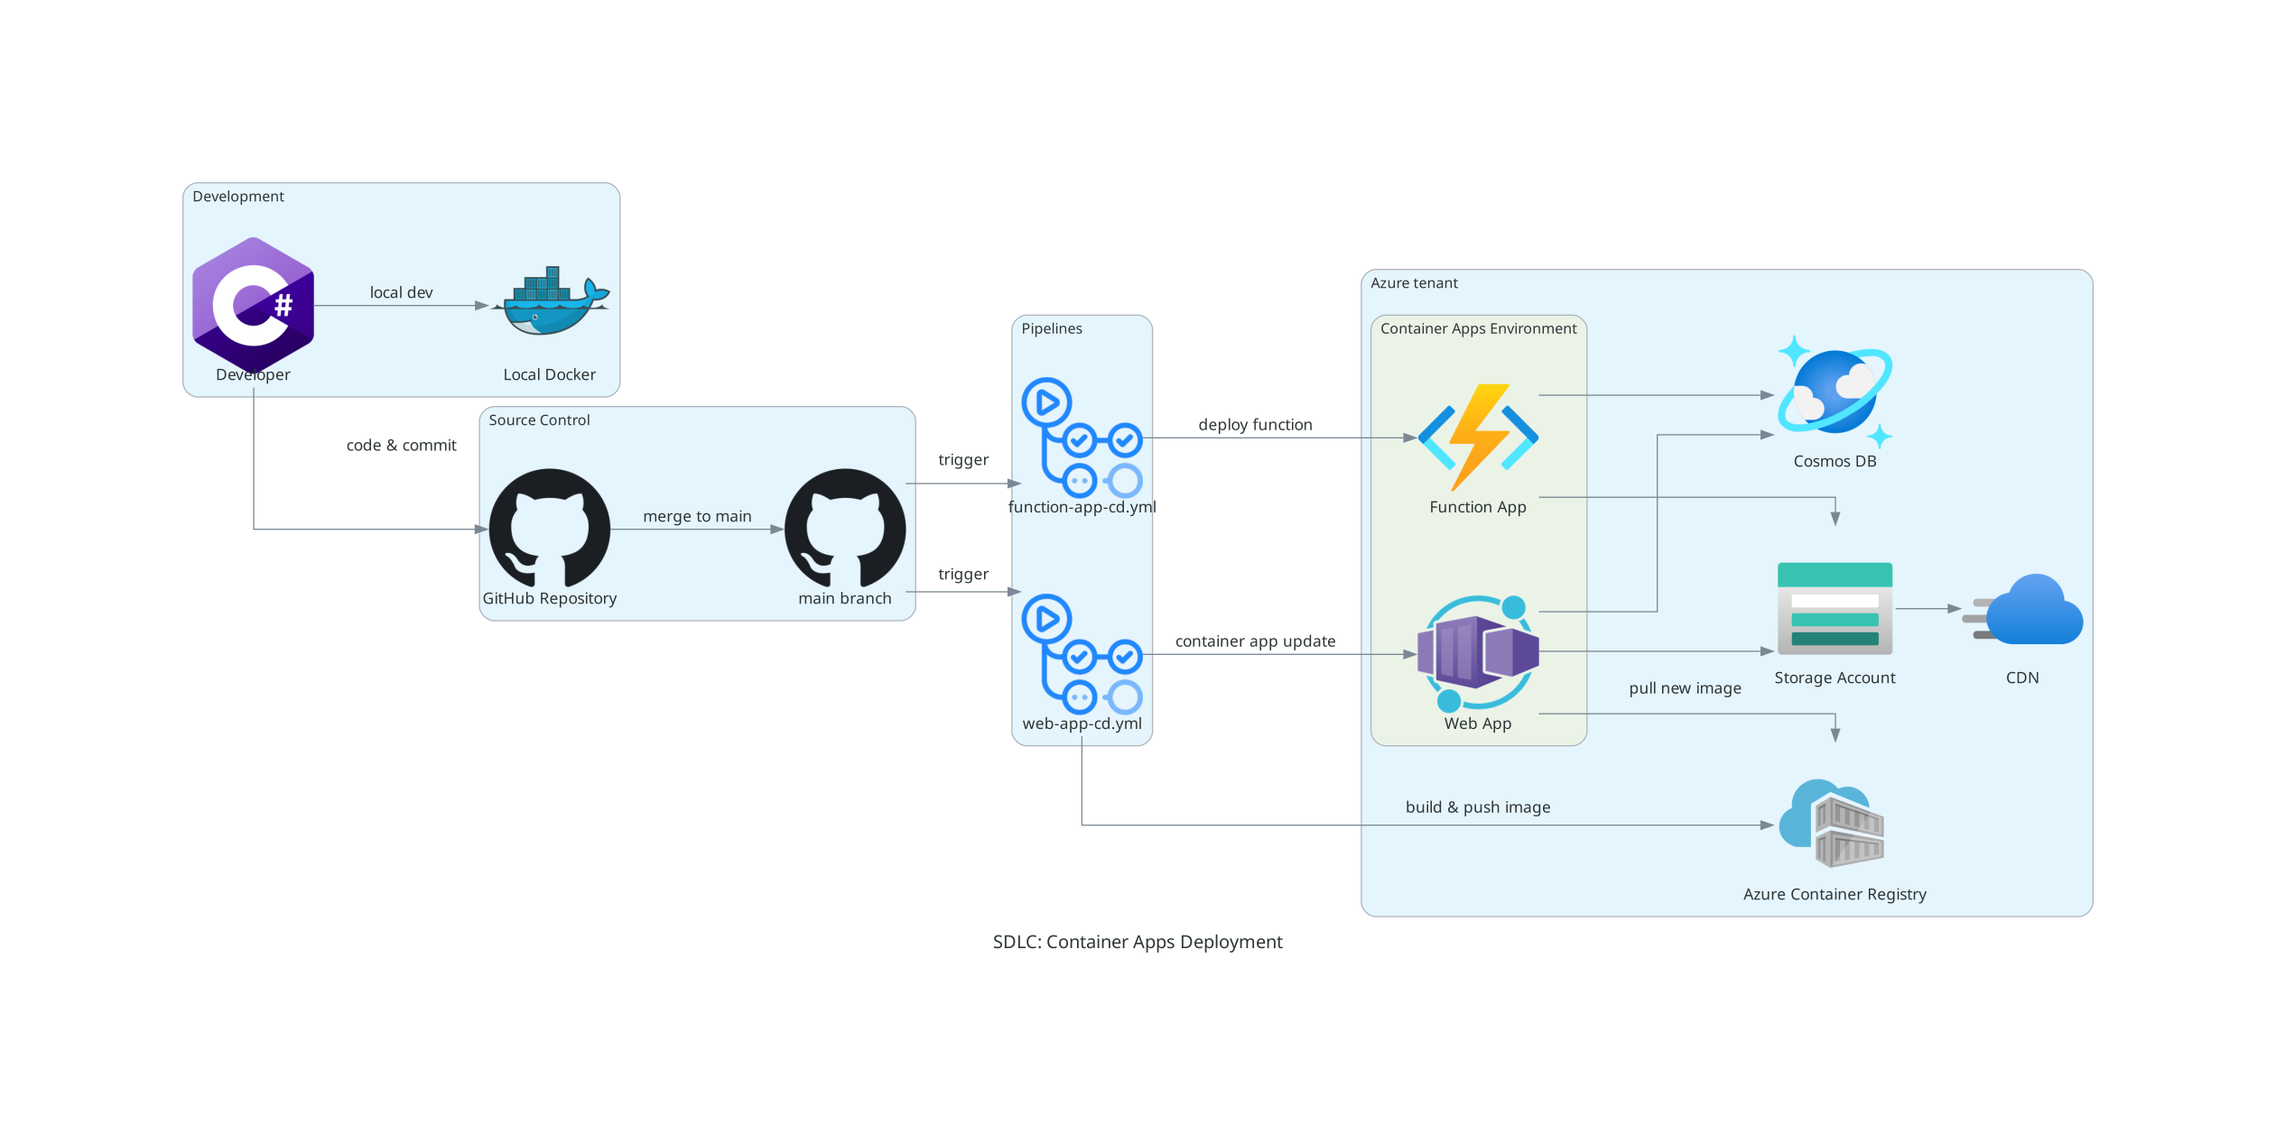
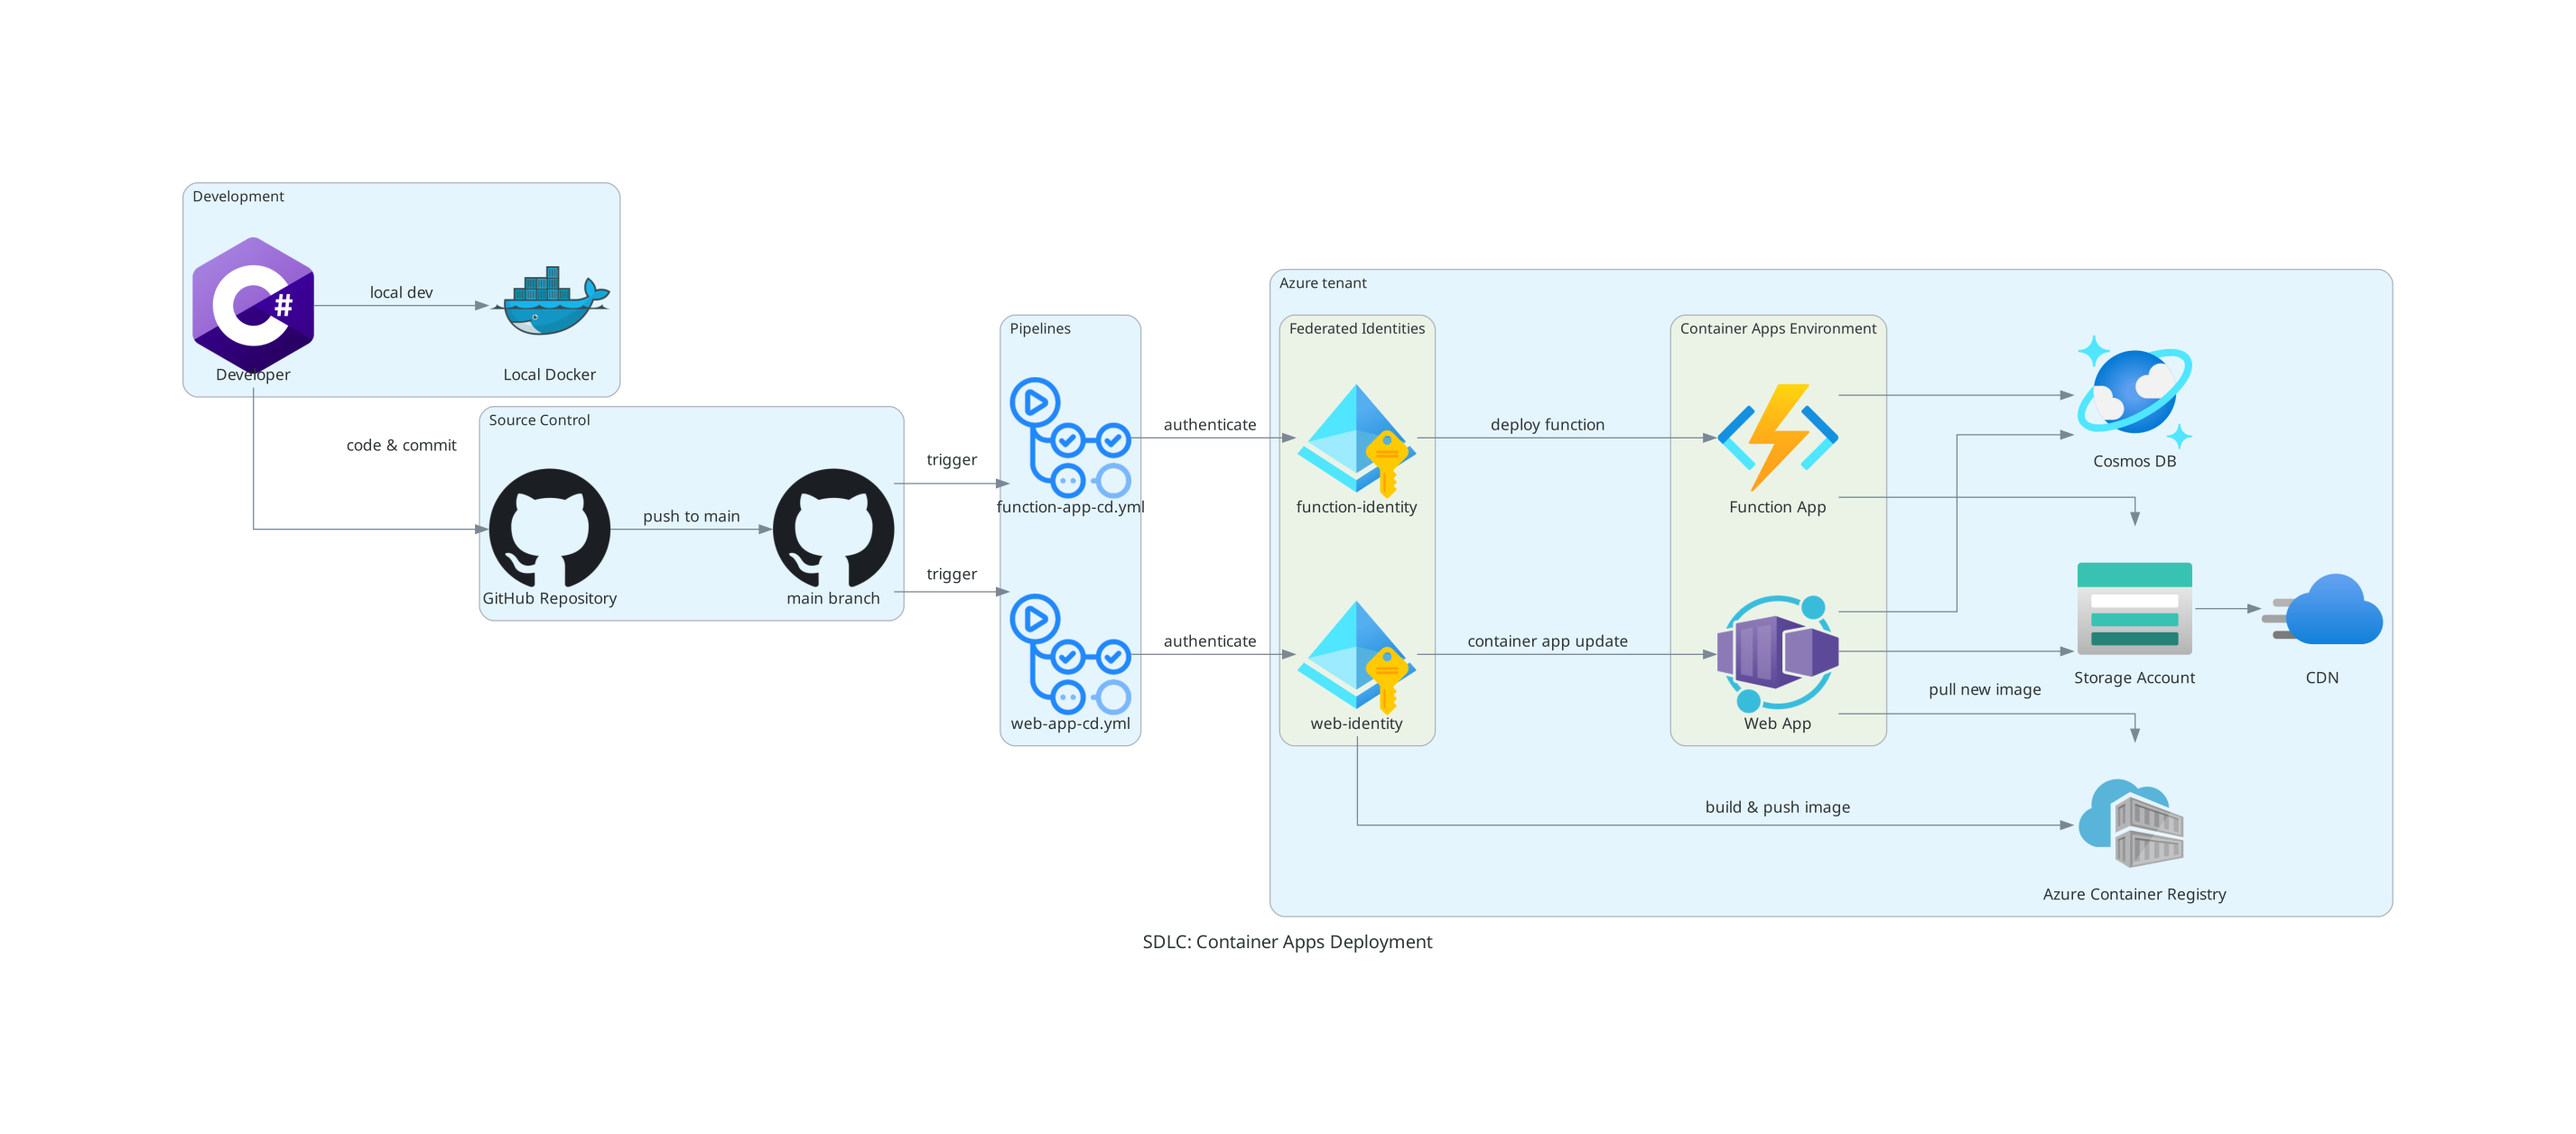
fix pipeline update diagrams

diff --git a/doc/sdlc-container-apps.py b/doc/sdlc-container-apps.py
@@ -7,18 +7,17 @@ Generates a visual diagram showing the software development lifecycle for Contai
 from diagrams import Diagram, Cluster, Edge
 from diagrams.onprem.vcs import Github
 from diagrams.onprem.ci import GithubActions
-from diagrams.azure.compute import ContainerApps, FunctionApps
+from diagrams.azure.compute import ContainerApps, FunctionApps, ContainerRegistries
 from diagrams.azure.database import CosmosDb
 from diagrams.azure.storage import StorageAccounts
 from diagrams.azure.network import CDNProfiles
-from diagrams.azure.compute import ContainerRegistries
-from  diagrams.programming.language import Csharp
+from diagrams.azure.identity import ManagedIdentities
 from diagrams.onprem.container import Docker
+from diagrams.programming.language import Csharp
 
 def create_diagram():
     with Diagram("SDLC: Container Apps Deployment", show=False, filename="sdlc-container-apps"):
 
-        # Development Phase
         with Cluster("Development"):
             developer = Csharp("Developer")
             local_docker = Docker("Local Docker")
@@ -32,6 +31,10 @@ def create_diagram():
             function_pipeline = GithubActions("function-app-cd.yml")
 
         with Cluster("Azure tenant"):
+            with Cluster("Federated Identities"):
+                web_identity = ManagedIdentities("web-identity")
+                function_identity = ManagedIdentities("function-identity")
+
             acr = ContainerRegistries("Azure Container Registry")
 
             with Cluster("Container Apps Environment"):
@@ -43,16 +46,19 @@ def create_diagram():
             cdn = CDNProfiles("CDN")
 
         developer >> Edge(label="code & commit") >> github_repo
-        github_repo >> Edge(label="merge to main") >> main_branch
+        github_repo >> Edge(label="push to main") >> main_branch
 
         main_branch >> Edge(label="trigger") >> web_pipeline
         main_branch >> Edge(label="trigger") >> function_pipeline
 
-        web_pipeline >> Edge(label="build & push image") >> acr
+        web_pipeline >> Edge(label="authenticate") >> web_identity
+        function_pipeline >> Edge(label="authenticate") >> function_identity
 
-        function_pipeline >> Edge(label="deploy function") >> function_app
-        web_pipeline >> Edge(label="container app update") >> web_app
+        web_identity >> Edge(label="build & push image") >> acr
+        web_identity >> Edge(label="container app update") >> web_app
         web_app >> Edge(label="pull new image") >> acr
+
+        function_identity >> Edge(label="deploy function") >> function_app
 
         web_app >> cosmos
         function_app >> cosmos

diff --git a/doc/sdlc-deployment-center.py b/doc/sdlc-deployment-center.py
@@ -26,7 +26,7 @@ def create_diagram():
             github_repo = Github("Repository")
 
         with Cluster("Pipelines"):
-            web_pipeline = GithubActions("web-app-cd-with-env.yml")
+            web_pipeline = GithubActions("Deployment center auto provisioned yaml workflow")
             function_pipeline = GithubActions("function-app-cd.yml")
 
         with Cluster("Azure tenant"):
@@ -52,7 +52,7 @@ def create_diagram():
         web >> Edge(label="code & commit") >> github_repo
         function >> Edge(label="code & commit") >> github_repo
 
-        github_repo >> Edge(label="manual trigger, select environment") >> web_pipeline
+        github_repo >> Edge(label="push to target branch") >> web_pipeline
         github_repo >> Edge(label="manual trigger") >> function_pipeline
 
         web_pipeline >> Edge(label="push via Deployment Center") >> [prod_dc, staging_dc, test_dc]
